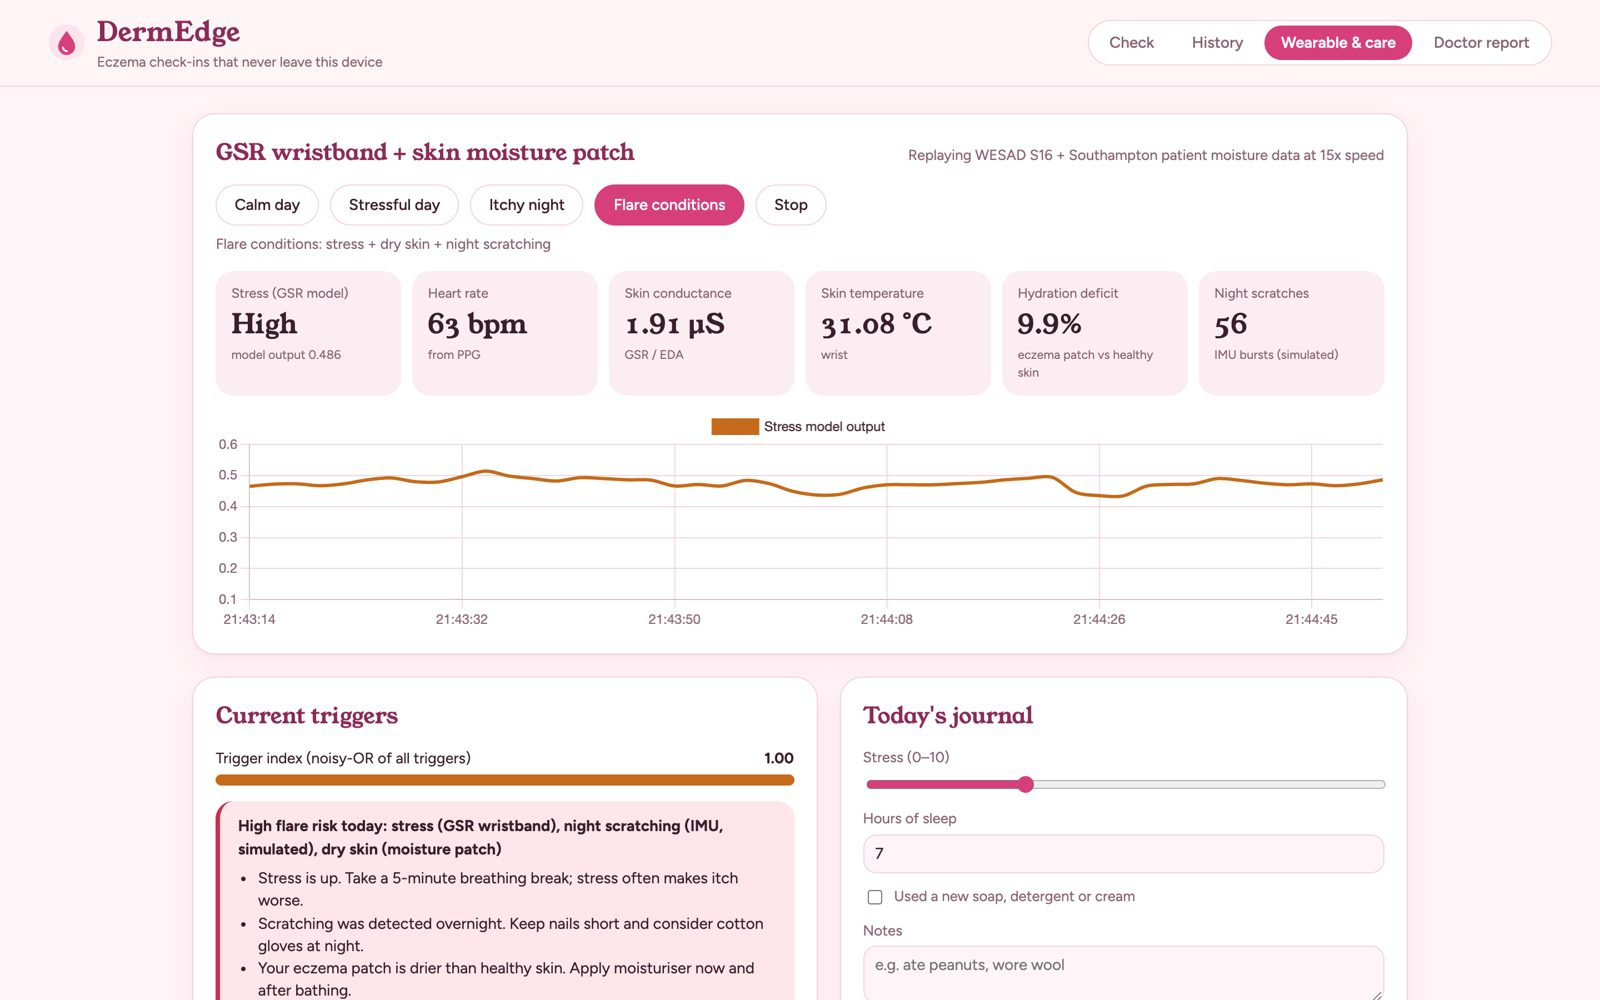
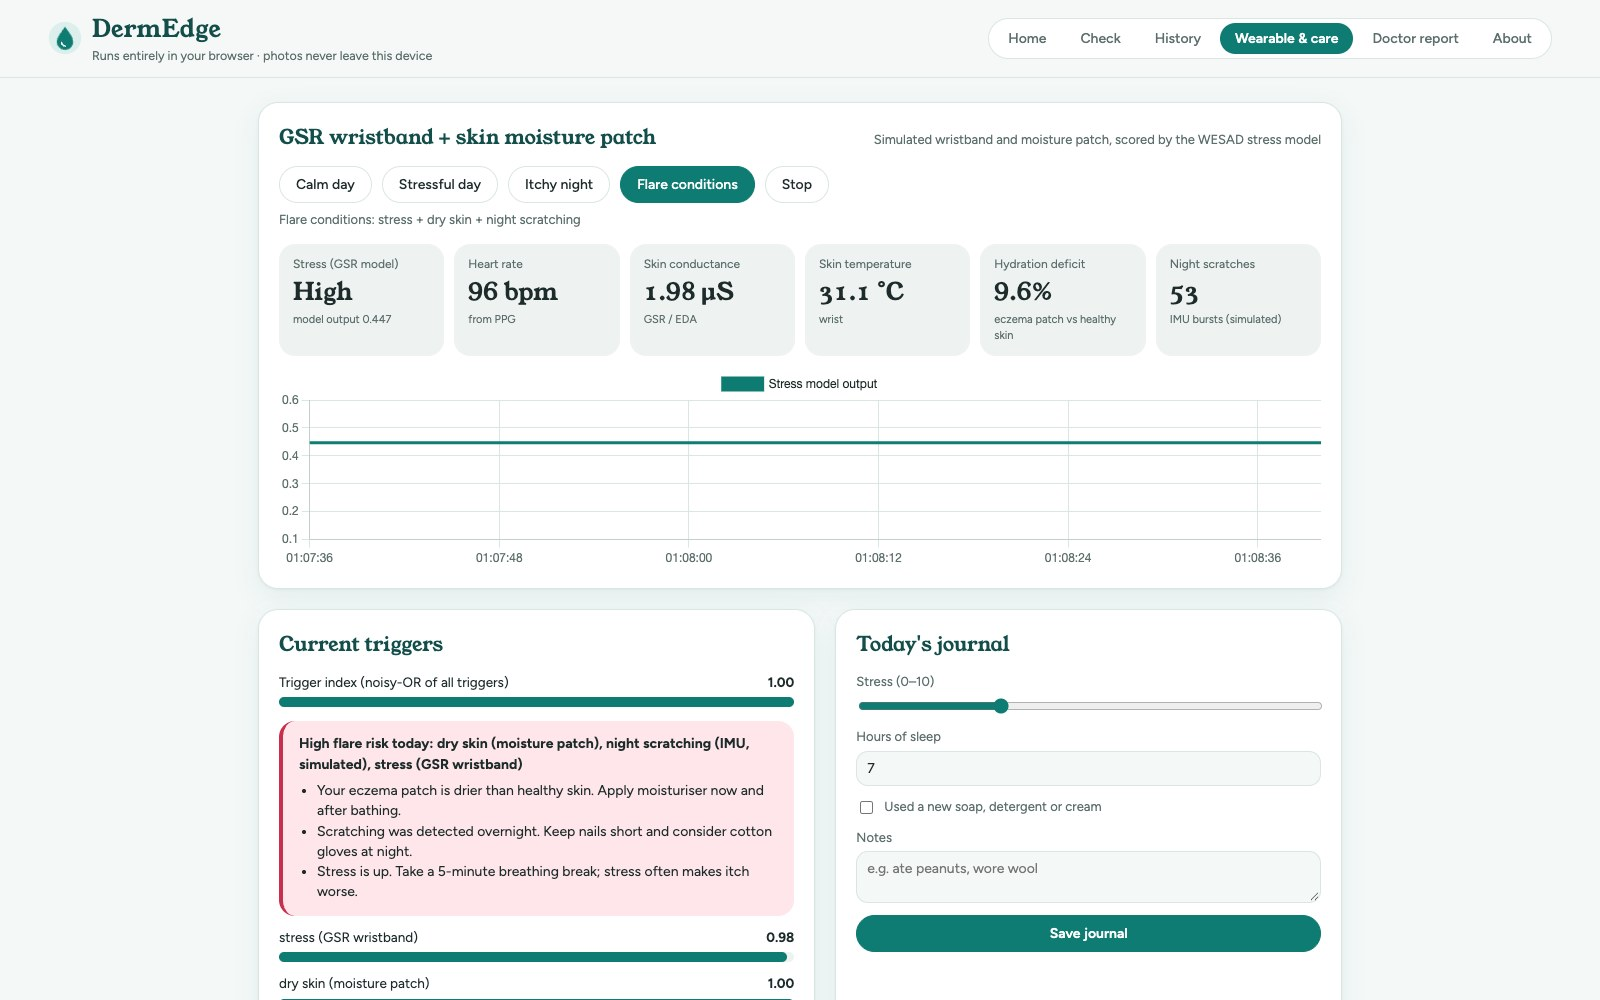
Retake the README screenshots in the website's teal theme, and add the Home tab
Taken from the website itself in headless Chrome at 1600x1000, like the old pink ones: the Home
tab (new), a check on the same DermNet arm photo as before, the clearly labelled sample history,
and the Flare conditions wearable replay.

diff --git a/README.md b/README.md
@@ -8,9 +8,11 @@ DermEdge checks a photo of skin in three stages, tracks each body site over time
 
 Built by **Team DermEdge** (Tishya Yadlapalli, Nitish GB, Shreeya Jetti) for the **Telemedicon 2026 AI & Digital Health Hackathon**, IIIT Sri City.
 
-| Check | History | Wearable & care |
-|---|---|---|
-| ![Live check: rash detected, eczema vs look-alikes, severity and heatmap](docs/check.jpg) | ![History: progress by body site and trigger insights](docs/history.jpg) | ![Wearable: stress, heart rate, hydration deficit and a flare alert](docs/wearable.jpg) |
+| Home | Check |
+|---|---|
+| ![Home: connect the DermEdge band, or open the skin check](docs/home.jpg) | ![Check: eczema found in an uploaded photo, with each stage, the severity and the heatmap](docs/check.jpg) |
+| **History** | **Wearable & care** |
+| ![History: progress by body site and trigger insights, from clearly labelled sample check-ins](docs/history.jpg) | ![Wearable and care: stress, skin conductance, hydration deficit and a flare alert](docs/wearable.jpg) |
 
 ## How it works
 
